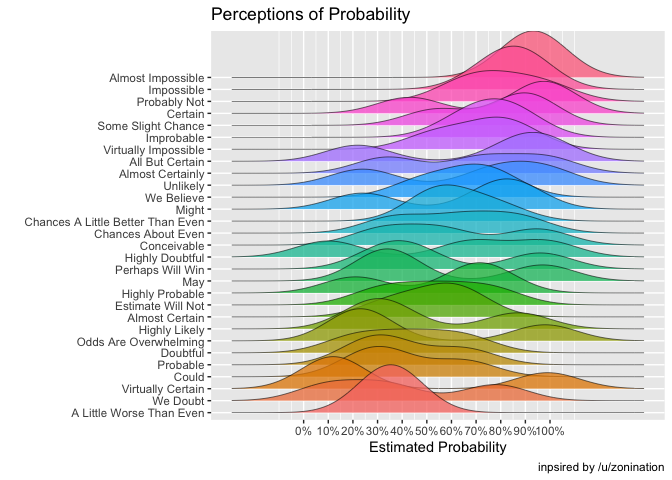
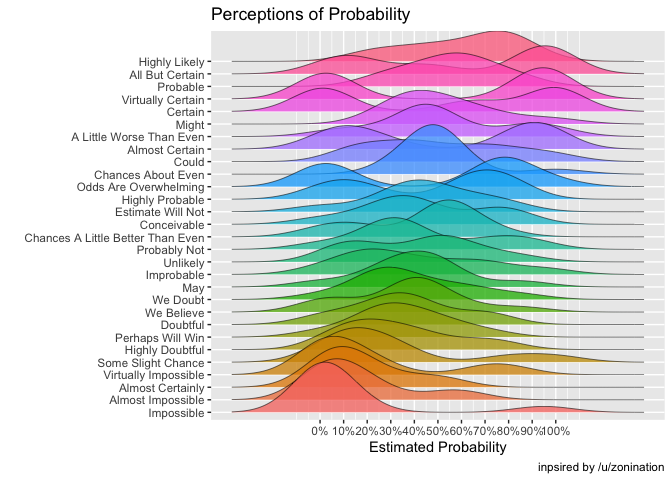
Refreshed data and image.

diff --git a/percept_prob.md b/percept_prob.md
@@ -3,8 +3,6 @@ Perceptions of Probability
 Alex Lundry
 2022-10-03
 
-**PLACEHOLDER PAGE WITH DEMO DATA - TO BE UPDATED WITH LIVE DATA**
-
 Read in and review data from the first survey:
 
 ``` r
